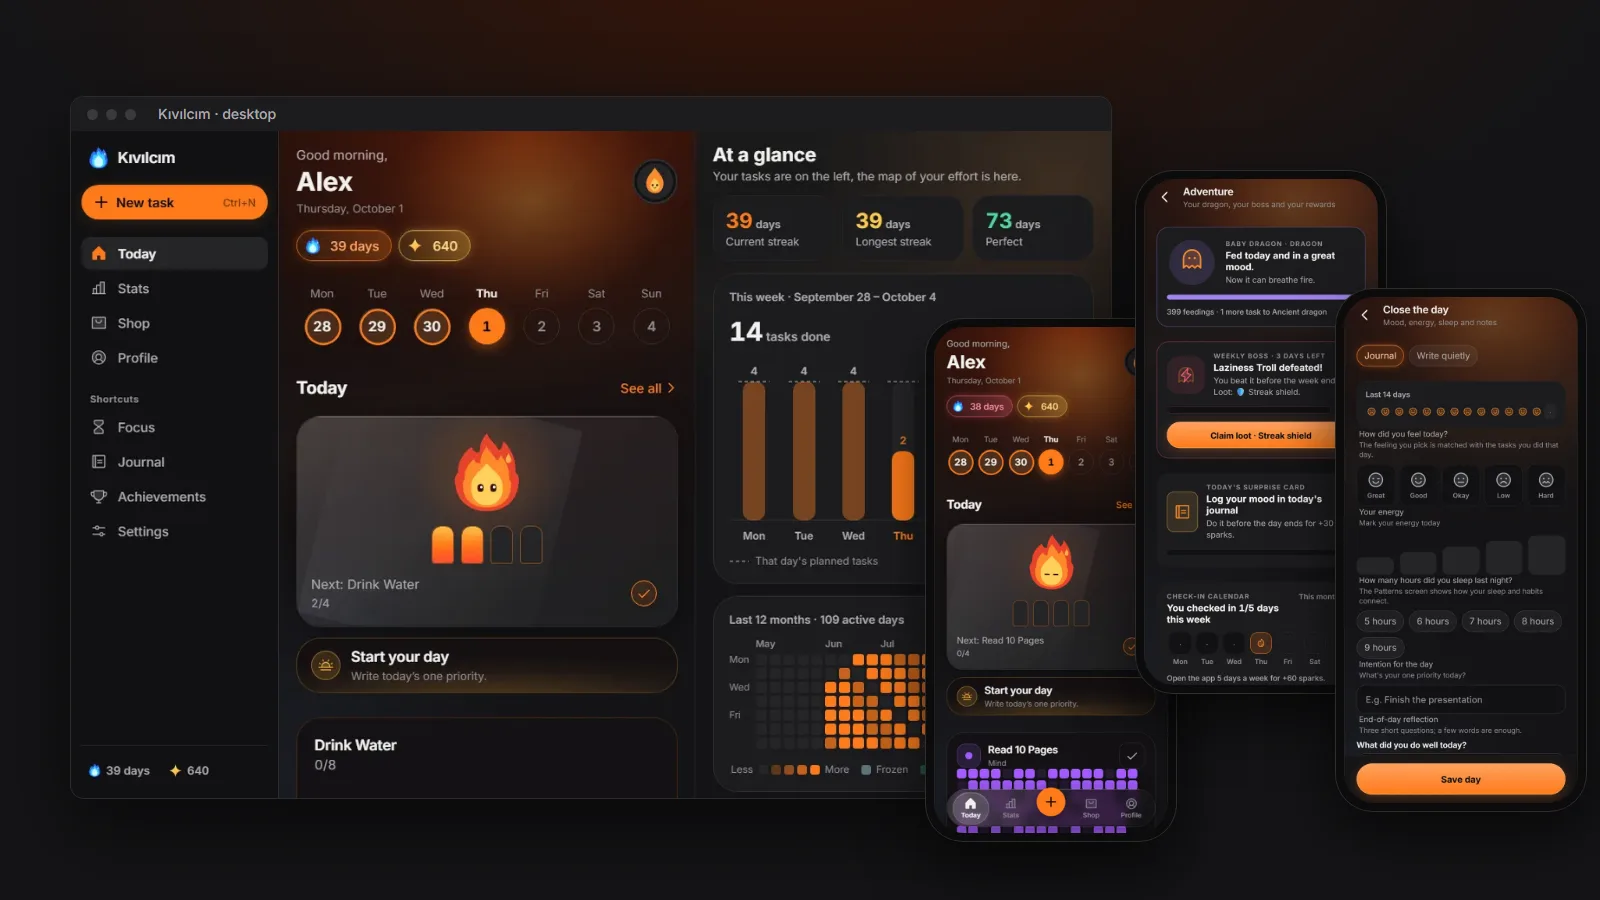
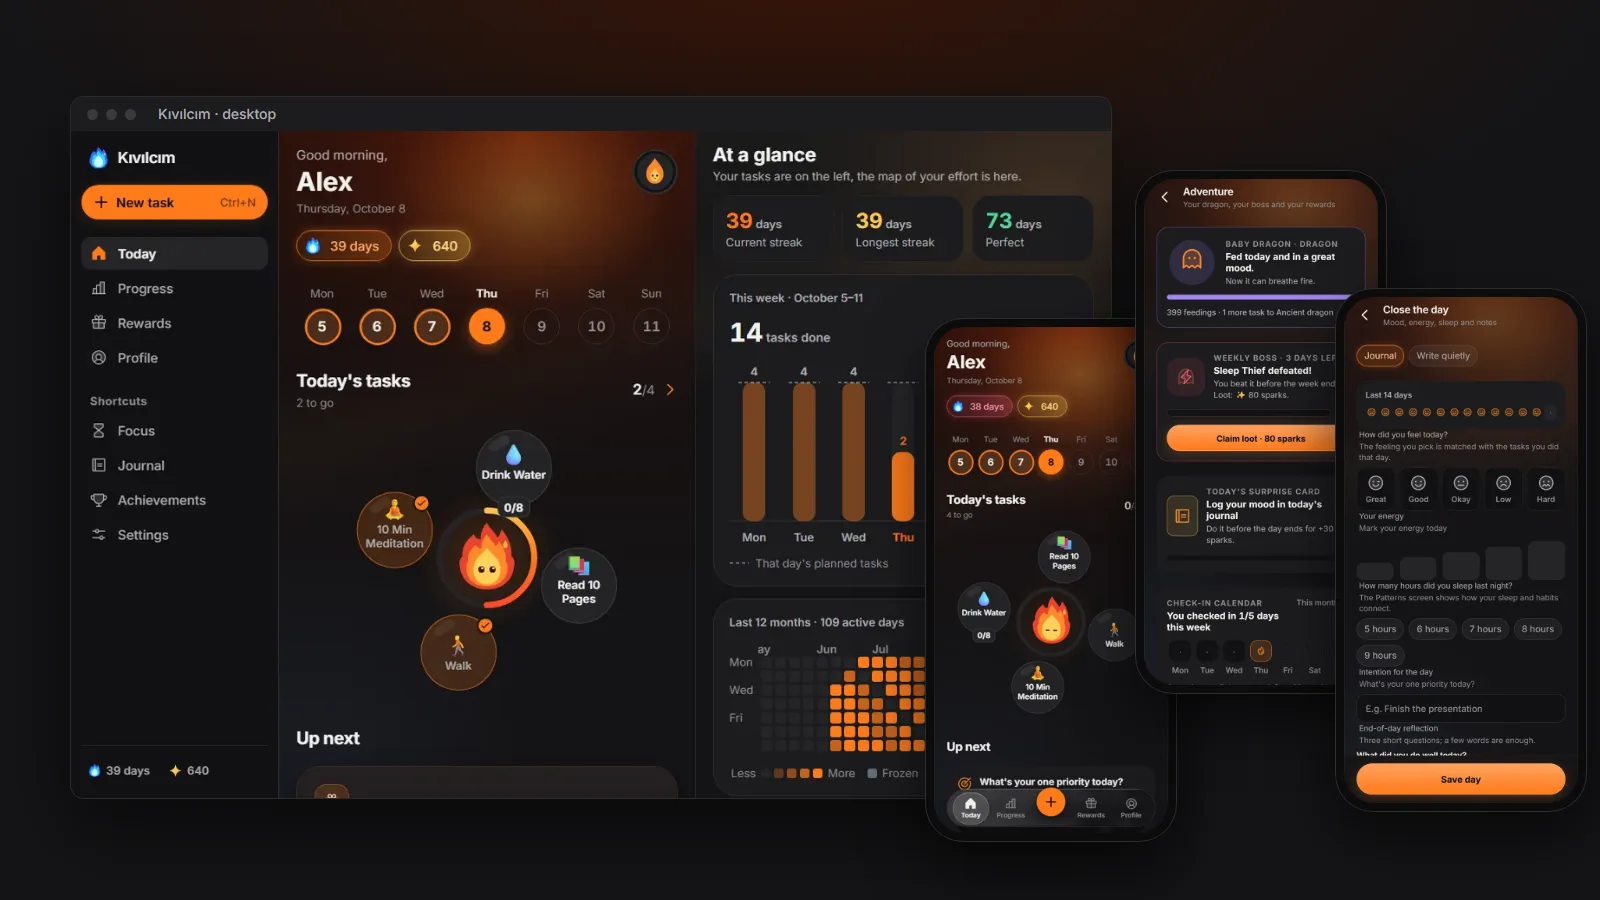
README ve sürüm notu görselleri 2.6'ya: yörünge hero'su, vitrin, döngü
- hero-*.svg: Ocak çıtaları yerine Kıvı'nın çevresinde ilerleme halkası ve süzülen görev baloncukları (sürüm notlarının başındaki görsel)
- showcase ve dongu görselleri 2.6 arayüzünden; README metni "Bir dokunuş, bir adım" (yörünge)

Claude-Session: https://claude.ai/code/session_0112CpipLcymZXdyUAZme48Q

diff --git a/README.md b/README.md
@@ -26,27 +26,27 @@
 
 <picture>
   <source media="(prefers-color-scheme: dark)" srcset=".github/readme/showcase-dark.webp">
-  <img src=".github/readme/showcase-light.webp" width="100%" alt="Kıvılcım masaüstünde kenar çubuklu geniş düzenle, telefonda Bugün, Macera ve Günü kapat ekranlarıyla.">
+  <img src=".github/readme/showcase-light.webp" width="100%" alt="Kıvılcım masaüstünde kenar çubuklu geniş düzenle, telefonda Bugün (görev yörüngesi), Macera ve Günü kapat ekranlarıyla.">
 </picture>
 
 <sub>Uygulamadan ekran görüntüleri, örnek veri.</sub>
 
 </div>
 
-## Bir tik, bir çıta
+## Bir dokunuş, bir adım
 
 <table>
   <tr>
     <td width="300" valign="top">
       <picture>
         <source media="(prefers-color-scheme: dark)" srcset=".github/readme/dongu-dark.webp">
-        <img src=".github/readme/dongu-light.webp" width="280" alt="Kıvılcım'ın Bugün ekranı: sıradaki görev tiklenince Ocak'taki çıta tutuşuyor, seri 38'den 39 güne çıkıyor; iki görev daha tiklenince üç çıta yanıyor.">
+        <img src=".github/readme/dongu-light.webp" width="280" alt="Kıvılcım'ın Bugün ekranı: görev baloncuklarına dokunuldukça Kıvı'nın çevresindeki halka doluyor, seri 38'den 39 güne çıkıyor; iki görev daha tiklenince halka dörtte üçe varıyor.">
       </picture>
     </td>
     <td valign="top">
 
-1. **Sıradaki görevi tikle.** Ocak'ın altındaki satır hep sıradaki görevi gösterir; tek dokunuş yeter.
-2. **Çıta tutuşur.** Her görev bir çıta. Tamamladıkça Kıvı'nın altındaki ateş büyür.
+1. **Baloncuğa dokun.** Kıvı ortada durur, bugünün görevleri çevresinde baloncuk olarak süzülür. Dokun, tamamla; basılı tut, seçenekler açılsın.
+2. **Halka dolar.** Her görev Kıvı'nın çevresindeki halkayı biraz daha doldurur. Hepsi bitince halka tam kapanır.
 3. **Seri büyür.** Günün ilk tikiyle seri bir gün uzar, hafta şeridinde bugün işaretlenir.
 
 <sub>Uygulamadan kayıt, örnek veri.</sub>
@@ -67,8 +67,8 @@ https://github.com/user-attachments/assets/8faaa3ea-f29c-4d0d-84ee-c61087552e53
   <tr>
     <td width="50%" valign="top">
       <img src=".github/readme/icons/ocak.svg" width="28" alt=""><br>
-      <b>Ocak</b><br>
-      Her görev bir çıta; tikledikçe çıtalar tutuşur. Sıradaki görev hep elinin altında.
+      <b>Yörünge</b><br>
+      Görevler Kıvı'nın çevresinde baloncuk; halka günün ilerlemesini gösterir. Altındaki "Sırada" kartı tek bir sonraki adımı önerir.
     </td>
     <td width="50%" valign="top">
       <img src=".github/readme/icons/seri.svg" width="28" alt=""><br>

diff --git a/README.en.md b/README.en.md
@@ -26,27 +26,27 @@
 
 <picture>
   <source media="(prefers-color-scheme: dark)" srcset=".github/readme/showcase-dark-en.webp">
-  <img src=".github/readme/showcase-light-en.webp" width="100%" alt="Kıvılcım on desktop with the wide sidebar layout, and on phone with the Today, Adventure and Close the day screens.">
+  <img src=".github/readme/showcase-light-en.webp" width="100%" alt="Kıvılcım on desktop with the wide sidebar layout, and on phone with the Today (task orbit), Adventure and Close the day screens.">
 </picture>
 
 <sub>Screenshots from the app, sample data.</sub>
 
 </div>
 
-## One tap, one log
+## One tap, one step
 
 <table>
   <tr>
     <td width="300" valign="top">
       <picture>
         <source media="(prefers-color-scheme: dark)" srcset=".github/readme/dongu-dark-en.webp">
-        <img src=".github/readme/dongu-light-en.webp" width="280" alt="Kıvılcım's Today screen: checking off the next task lights a log in the Hearth and the streak goes from 38 to 39 days; two more check-offs and three logs are burning.">
+        <img src=".github/readme/dongu-light-en.webp" width="280" alt="Kıvılcım's Today screen: tapping task bubbles fills the ring around Kıvı and the streak goes from 38 to 39 days; two more check-offs and the ring reaches three quarters.">
       </picture>
     </td>
     <td valign="top">
 
-1. **Check off the next task.** The line under the Hearth always shows your next task; one tap is enough.
-2. **A log catches fire.** Every task is a log. As you finish them, the fire under Kıvı grows.
+1. **Tap a bubble.** Kıvı stays in the middle and today's tasks float around it as bubbles. Tap to finish; press and hold for options.
+2. **The ring fills.** Every task fills the ring around Kıvı a little more. When all are done, the ring closes.
 3. **Your streak grows.** The day's first check-in adds a day to your streak and marks today on the week strip.
 
 <sub>Recorded in the app, sample data.</sub>
@@ -67,8 +67,8 @@
   <tr>
     <td width="50%" valign="top">
       <img src=".github/readme/icons/ocak.svg" width="28" alt=""><br>
-      <b>The Hearth</b><br>
-      Every task is a log; check them off and the logs catch fire. Your next task is always within reach.
+      <b>The orbit</b><br>
+      Tasks are bubbles around Kıvı; the ring shows the day's progress. The "Up next" card below suggests one next step.
     </td>
     <td width="50%" valign="top">
       <img src=".github/readme/icons/seri.svg" width="28" alt=""><br>
